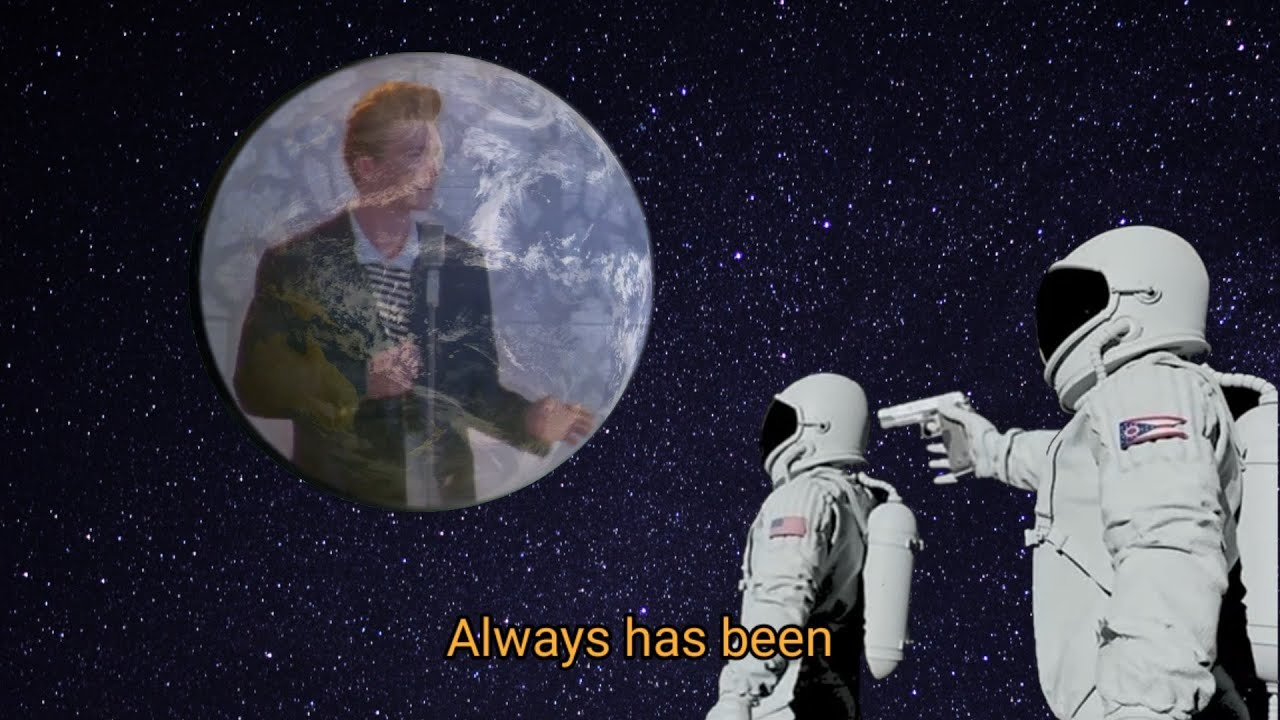
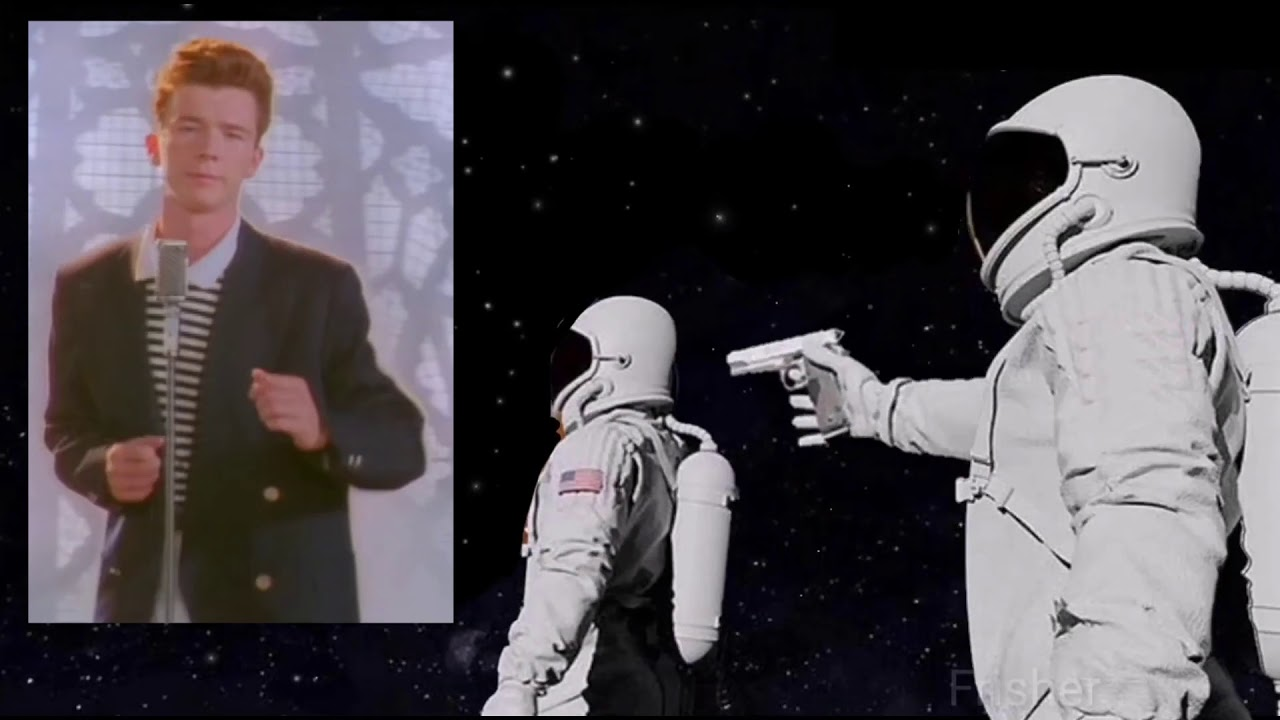
OAuth lite faltu mehnat >_>

diff --git a/src/components/SinglePerson.tsx b/src/components/SinglePerson.tsx
@@ -11,7 +11,7 @@ const SinglePerson: React.FC<SinglePersonProps> = ({ person }) => {
   if (person.bitsId[4] !== "A" && person.bitsId[4] !== "B") return <></>;
   console.count("rendered");
   const year = person.bitsId.slice(0, 4);
-  let lastSem = 0;
+  let lastSem = 1;
   let sgList =
     year === "2020"
       ? person.cgList.slice(5)
@@ -30,13 +30,11 @@ const SinglePerson: React.FC<SinglePersonProps> = ({ person }) => {
     <StyledPerson>
       <h2>{person.name.toLowerCase()}</h2>
       <p className="id">{person.bitsId}</p>
-      {/* {year !== "2020" ? ( */}
       <>
         <div className="cg-container">
           {sgList.map((sg, index) => {
             let offset = year === "2017" ? 3 : year === "2016" ? 5 : 1;
             if (index) lastSem = index + offset;
-            lastSem = year === "2020" ? 1 : lastSem;
             return (
               <p key={index}>
                 Sem {index + offset} CG: {sg || "????"}
@@ -66,13 +64,6 @@ const SinglePerson: React.FC<SinglePersonProps> = ({ person }) => {
           </p>
         </div>
       </>
-      {/* //* They can handle the truth now kek */}
-      {/* ) : (
-        <p className="cg-container">
-          Not showing 2020 batch's CG <Link to="/reason">My Reason</Link> you
-          may still stalk your seniors tho 😏
-        </p>
-      )} */}
       Email:
       <a className="email" href={`mailto:${email}`}>
         {email}

diff --git a/src/pages/Rollpage.tsx b/src/pages/Rollpage.tsx
@@ -1,9 +1,9 @@
 import React, { useEffect, useState } from "react";
 import styled from "styled-components";
-import alwaysBeenRickRoll from "../assets/alwaysHaveBeen2.jpg";
+import alwaysBeenRickRoll from "../assets/alwaysHaveBeen.jpg";
 
 const Rollpage: React.FC = () => {
-  const [timeBeforeRickRoll, setTimeBeforeRickRoll] = useState(500);
+  const [timeBeforeRickRoll, setTimeBeforeRickRoll] = useState(600);
 
   useEffect(() => {
     const TICK = 100;
